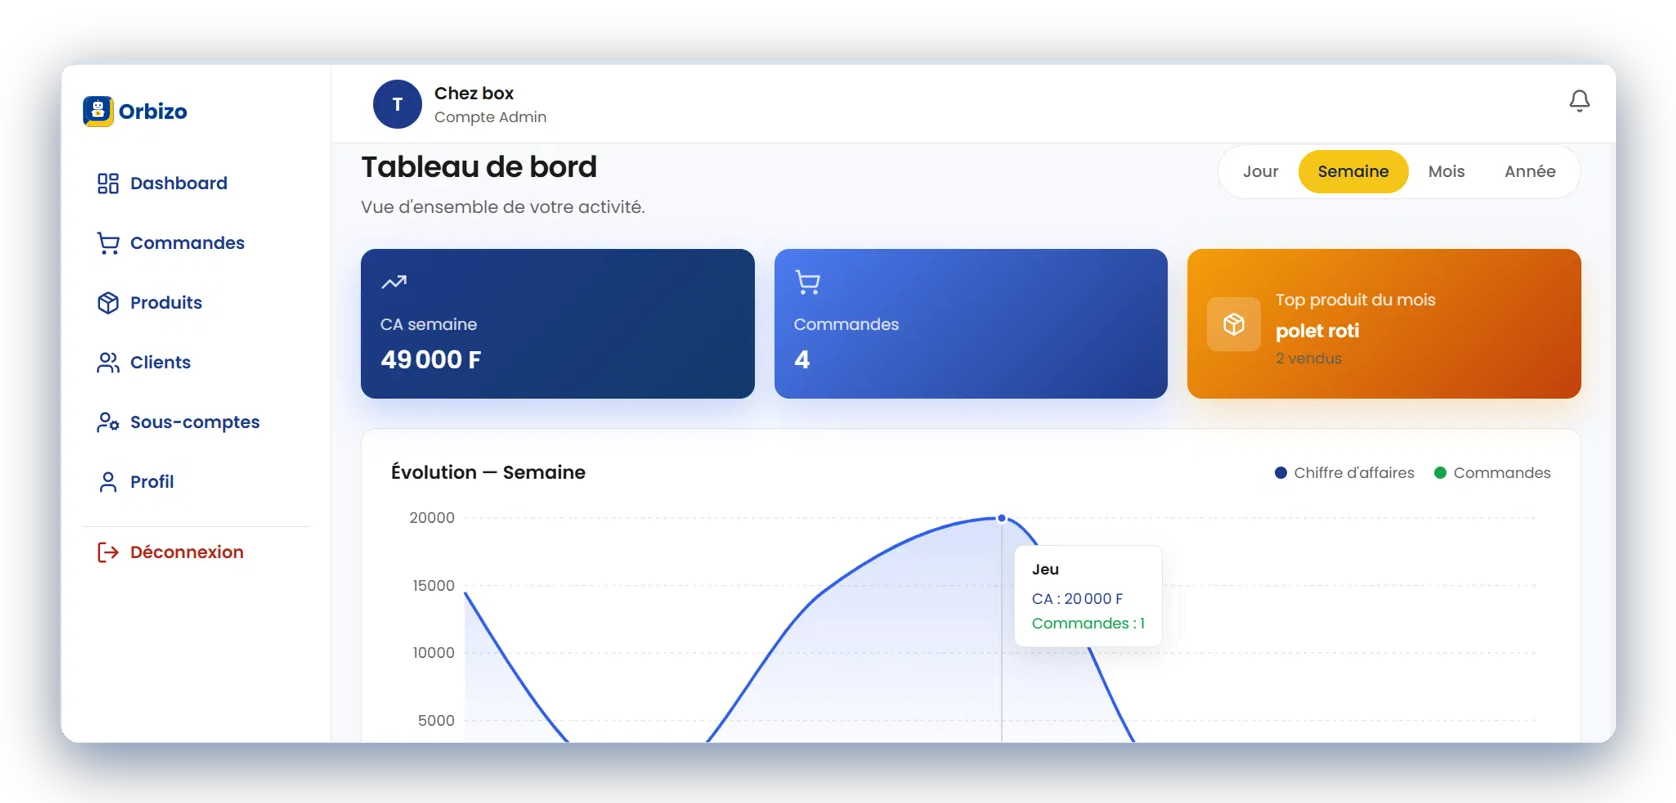
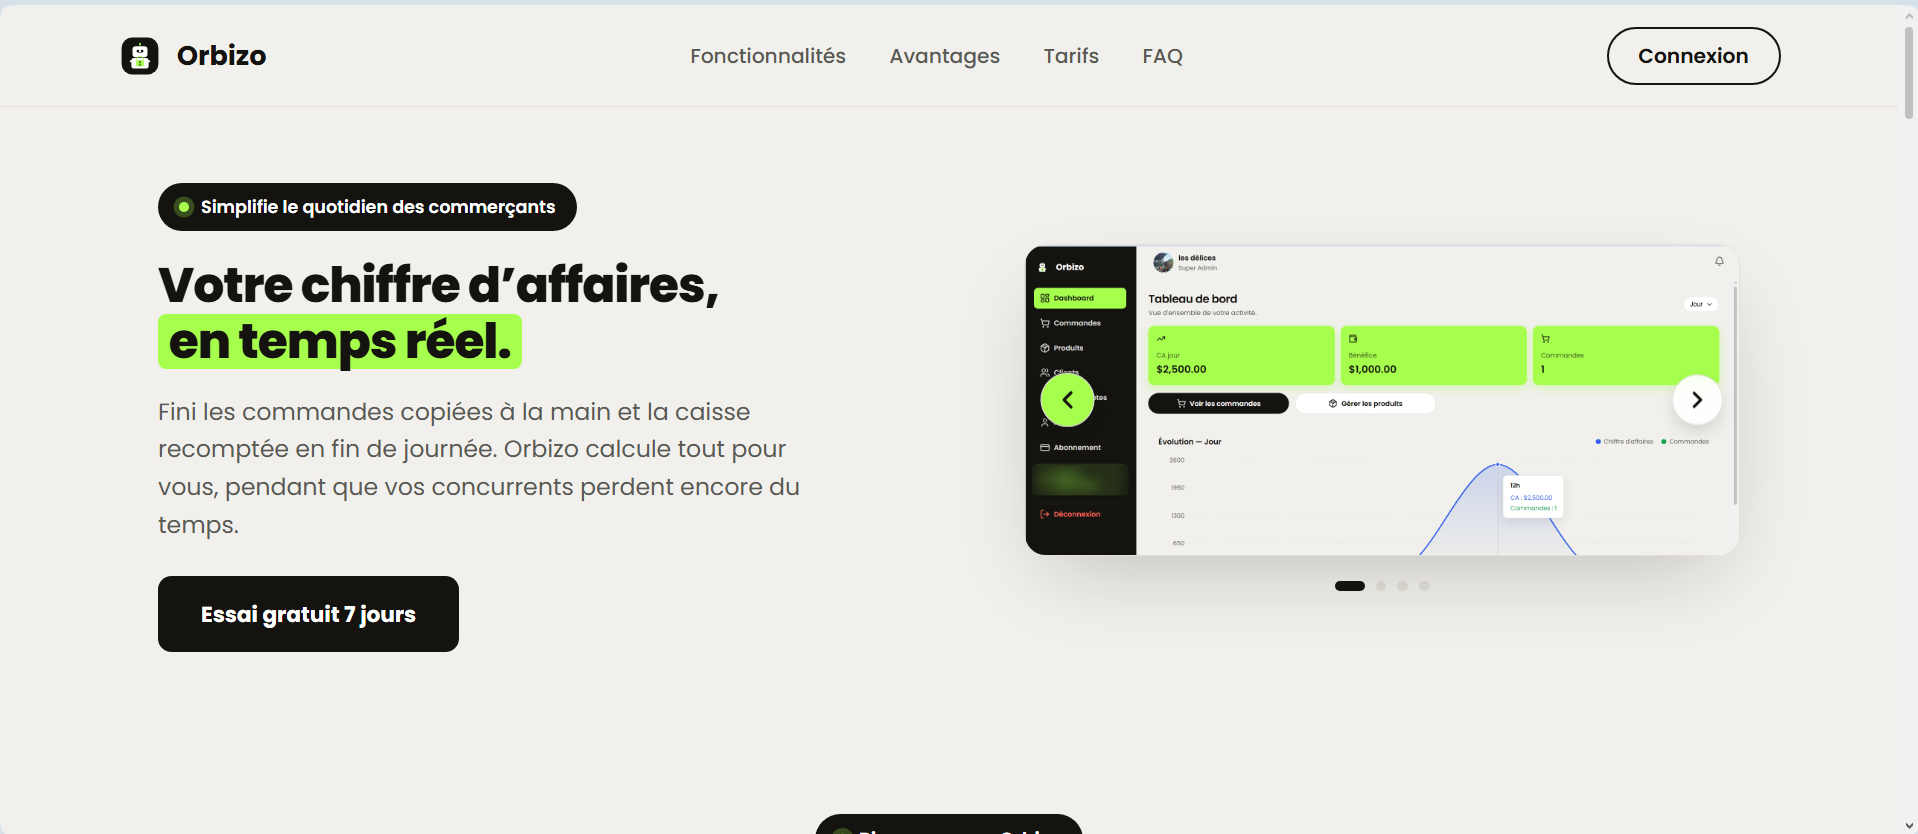
modif

diff --git a/src/Pages/Projets.css b/src/Pages/Projets.css
@@ -107,15 +107,19 @@
 
 .projet-image-wrapper {
   width: 100%;
-  aspect-ratio: 16 / 10;
   overflow: hidden;
   border-radius: var(--radius-card);
   margin-bottom: 1rem;
+  background-color: var(--color-bg-secondary, #f5f5f5); /* fond neutre autour de l'image si elle ne remplit pas tout l'espace */
+  display: flex;
+  align-items: center;
+  justify-content: center;
 }
 
 .projet-image {
   width: 100%;
-  height: 100%;
-  object-fit: cover;
+  height: auto;       /* la hauteur s'adapte au ratio réel de l'image */
+  max-height: 320px;  /* évite qu'une image très haute déborde sur mobile */
+  object-fit: contain; /* l'image entière est toujours visible, jamais coupée */
   display: block;
 }
